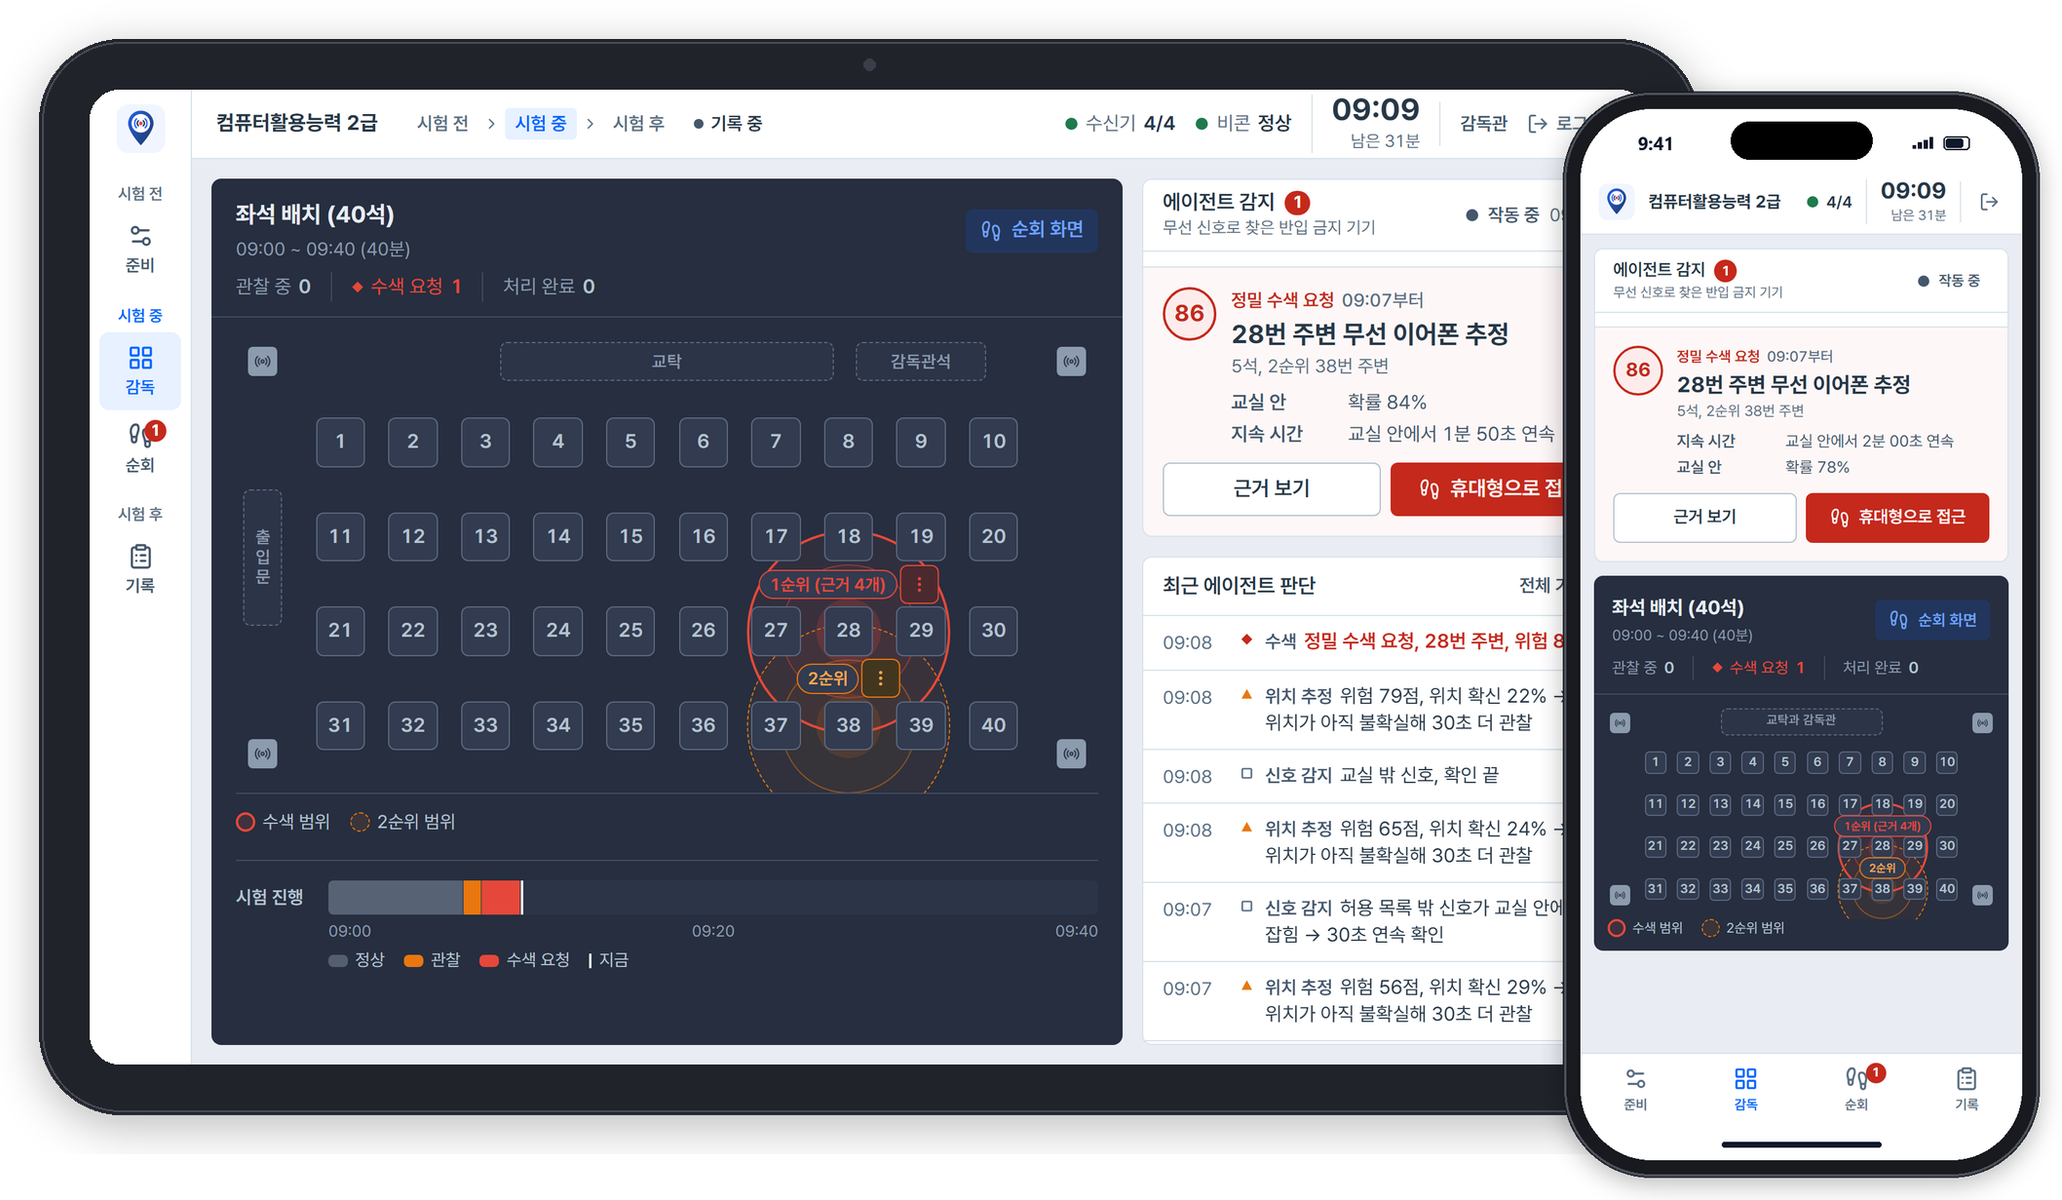
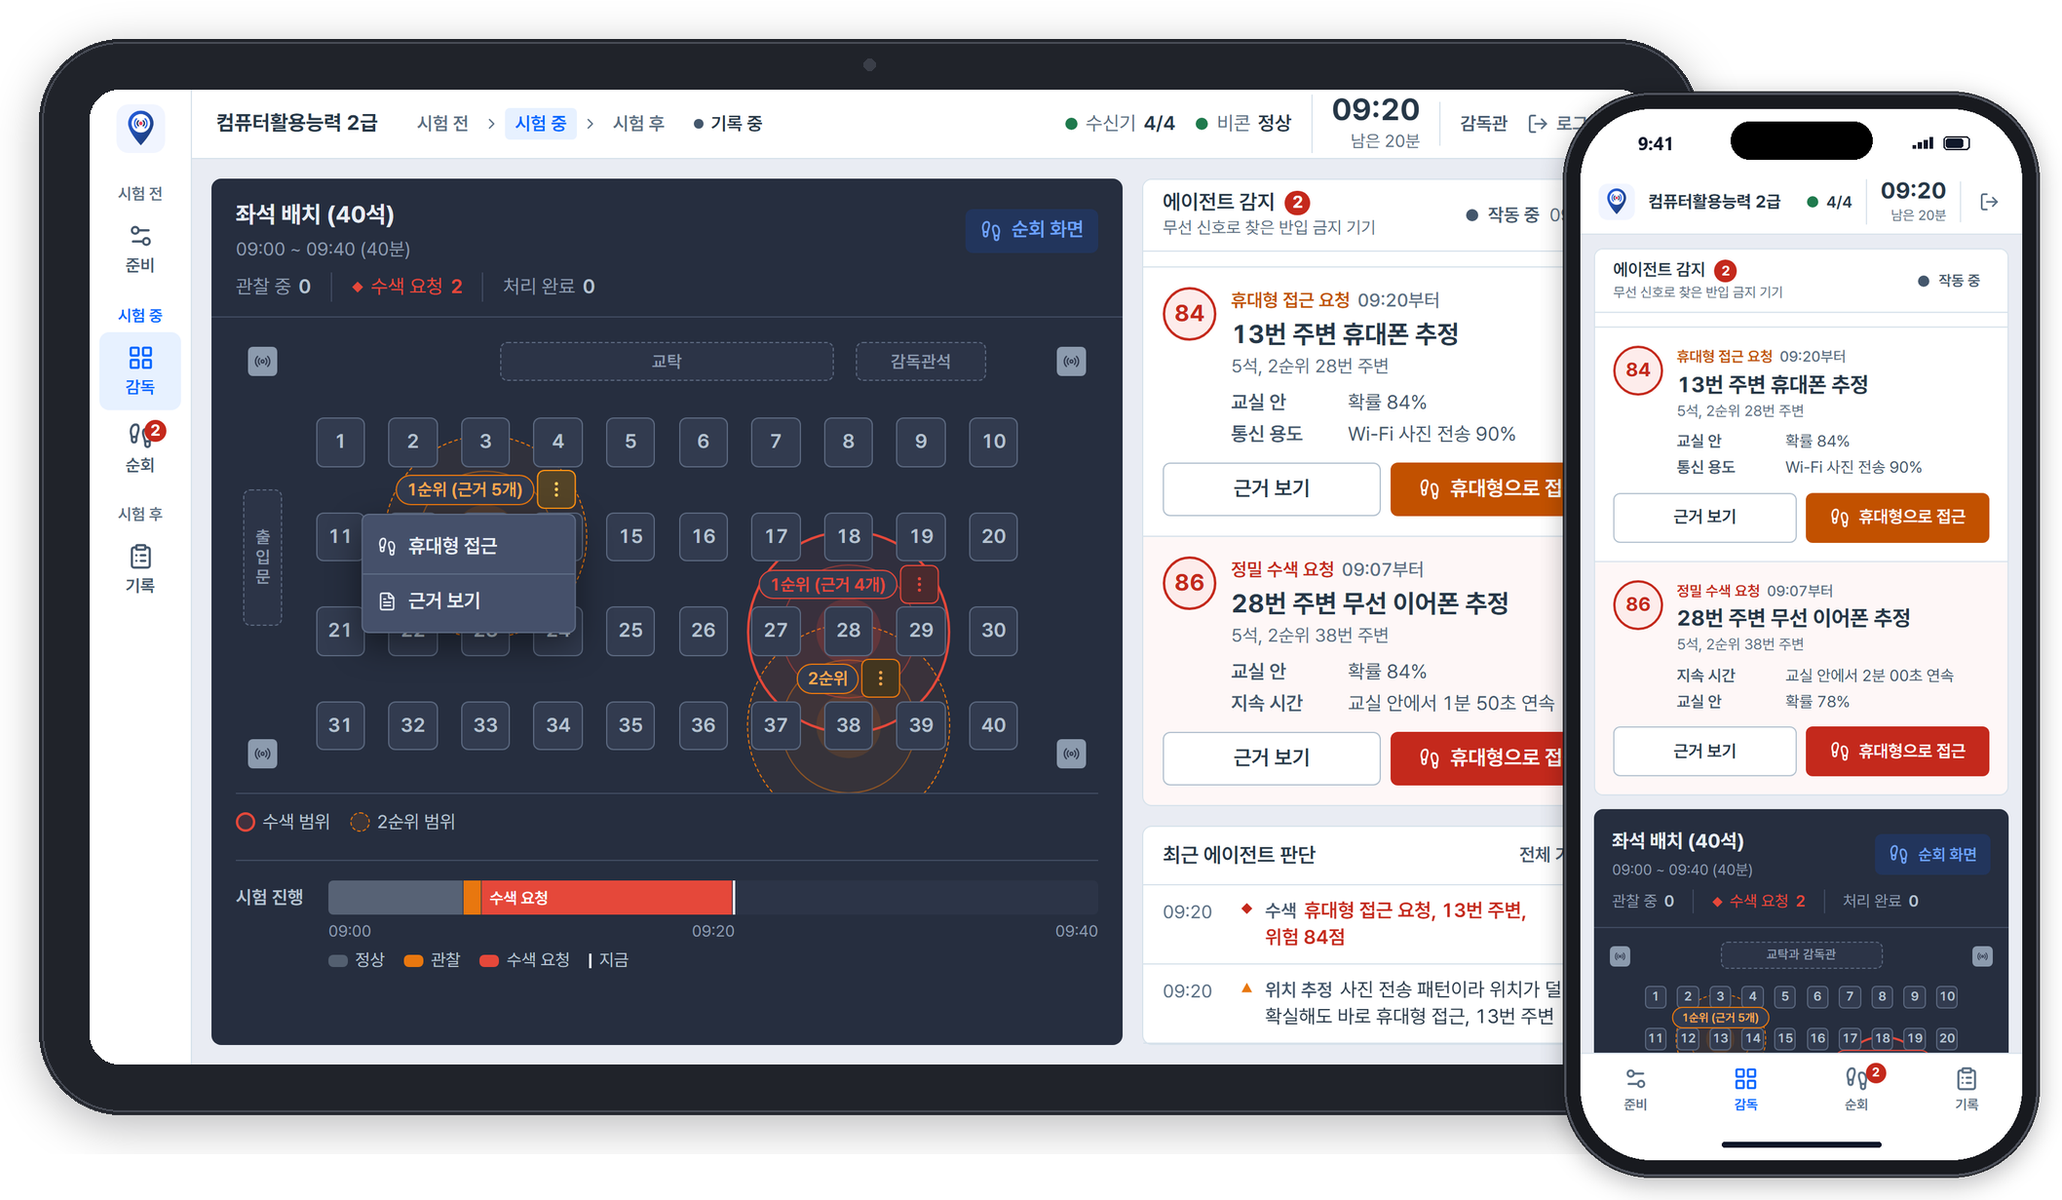
README: 감독 화면 캡처를 수색 요청 2건 · 범위 ⋮ 메뉴를 펼친 장면으로 교체, 대표 이미지 휴대폰도 같은 순간으로

diff --git a/README.md b/README.md
@@ -92,7 +92,7 @@
 <table>
   <tr>
     <td width="50%" align="center"><img src="docs/images/tablet/04_monitor_watching.png" alt="감독 · 관찰 중"/><br/><b>⑤ 관찰 중</b><br/><sub>교실 안 새 신호 · 에이전트가 30초 더 지켜봄 (아직 조치 필요 없음)</sub></td>
-    <td width="50%" align="center"><img src="docs/images/tablet/05_monitor_request.png" alt="정밀 수색 요청"/><br/><b>⑥ 에이전트 감지 · 정밀 수색 요청</b><br/><sub>위험 점수 · 추정 위치 · 근거 2줄 · 1순위/2순위 범위</sub></td>
+    <td width="50%" align="center"><img src="docs/images/tablet/05_monitor_request.png" alt="수색 요청 2건 · 범위 메뉴"/><br/><b>⑥ 에이전트 감지 · 수색 요청</b><br/><sub>위험 점수 · 추정 위치 · 근거 2줄 · 범위 ⋮ 메뉴(휴대형 접근 · 근거 보기)</sub></td>
   </tr>
   <tr>
     <td align="center"><img src="docs/images/tablet/06_evidence_receivers.png" alt="근거 보기"/><br/><b>⑦ 근거 보기</b><br/><sub>대응 단계 · 신호원별 근거 · 이 기기의 시간순 기록</sub></td>
